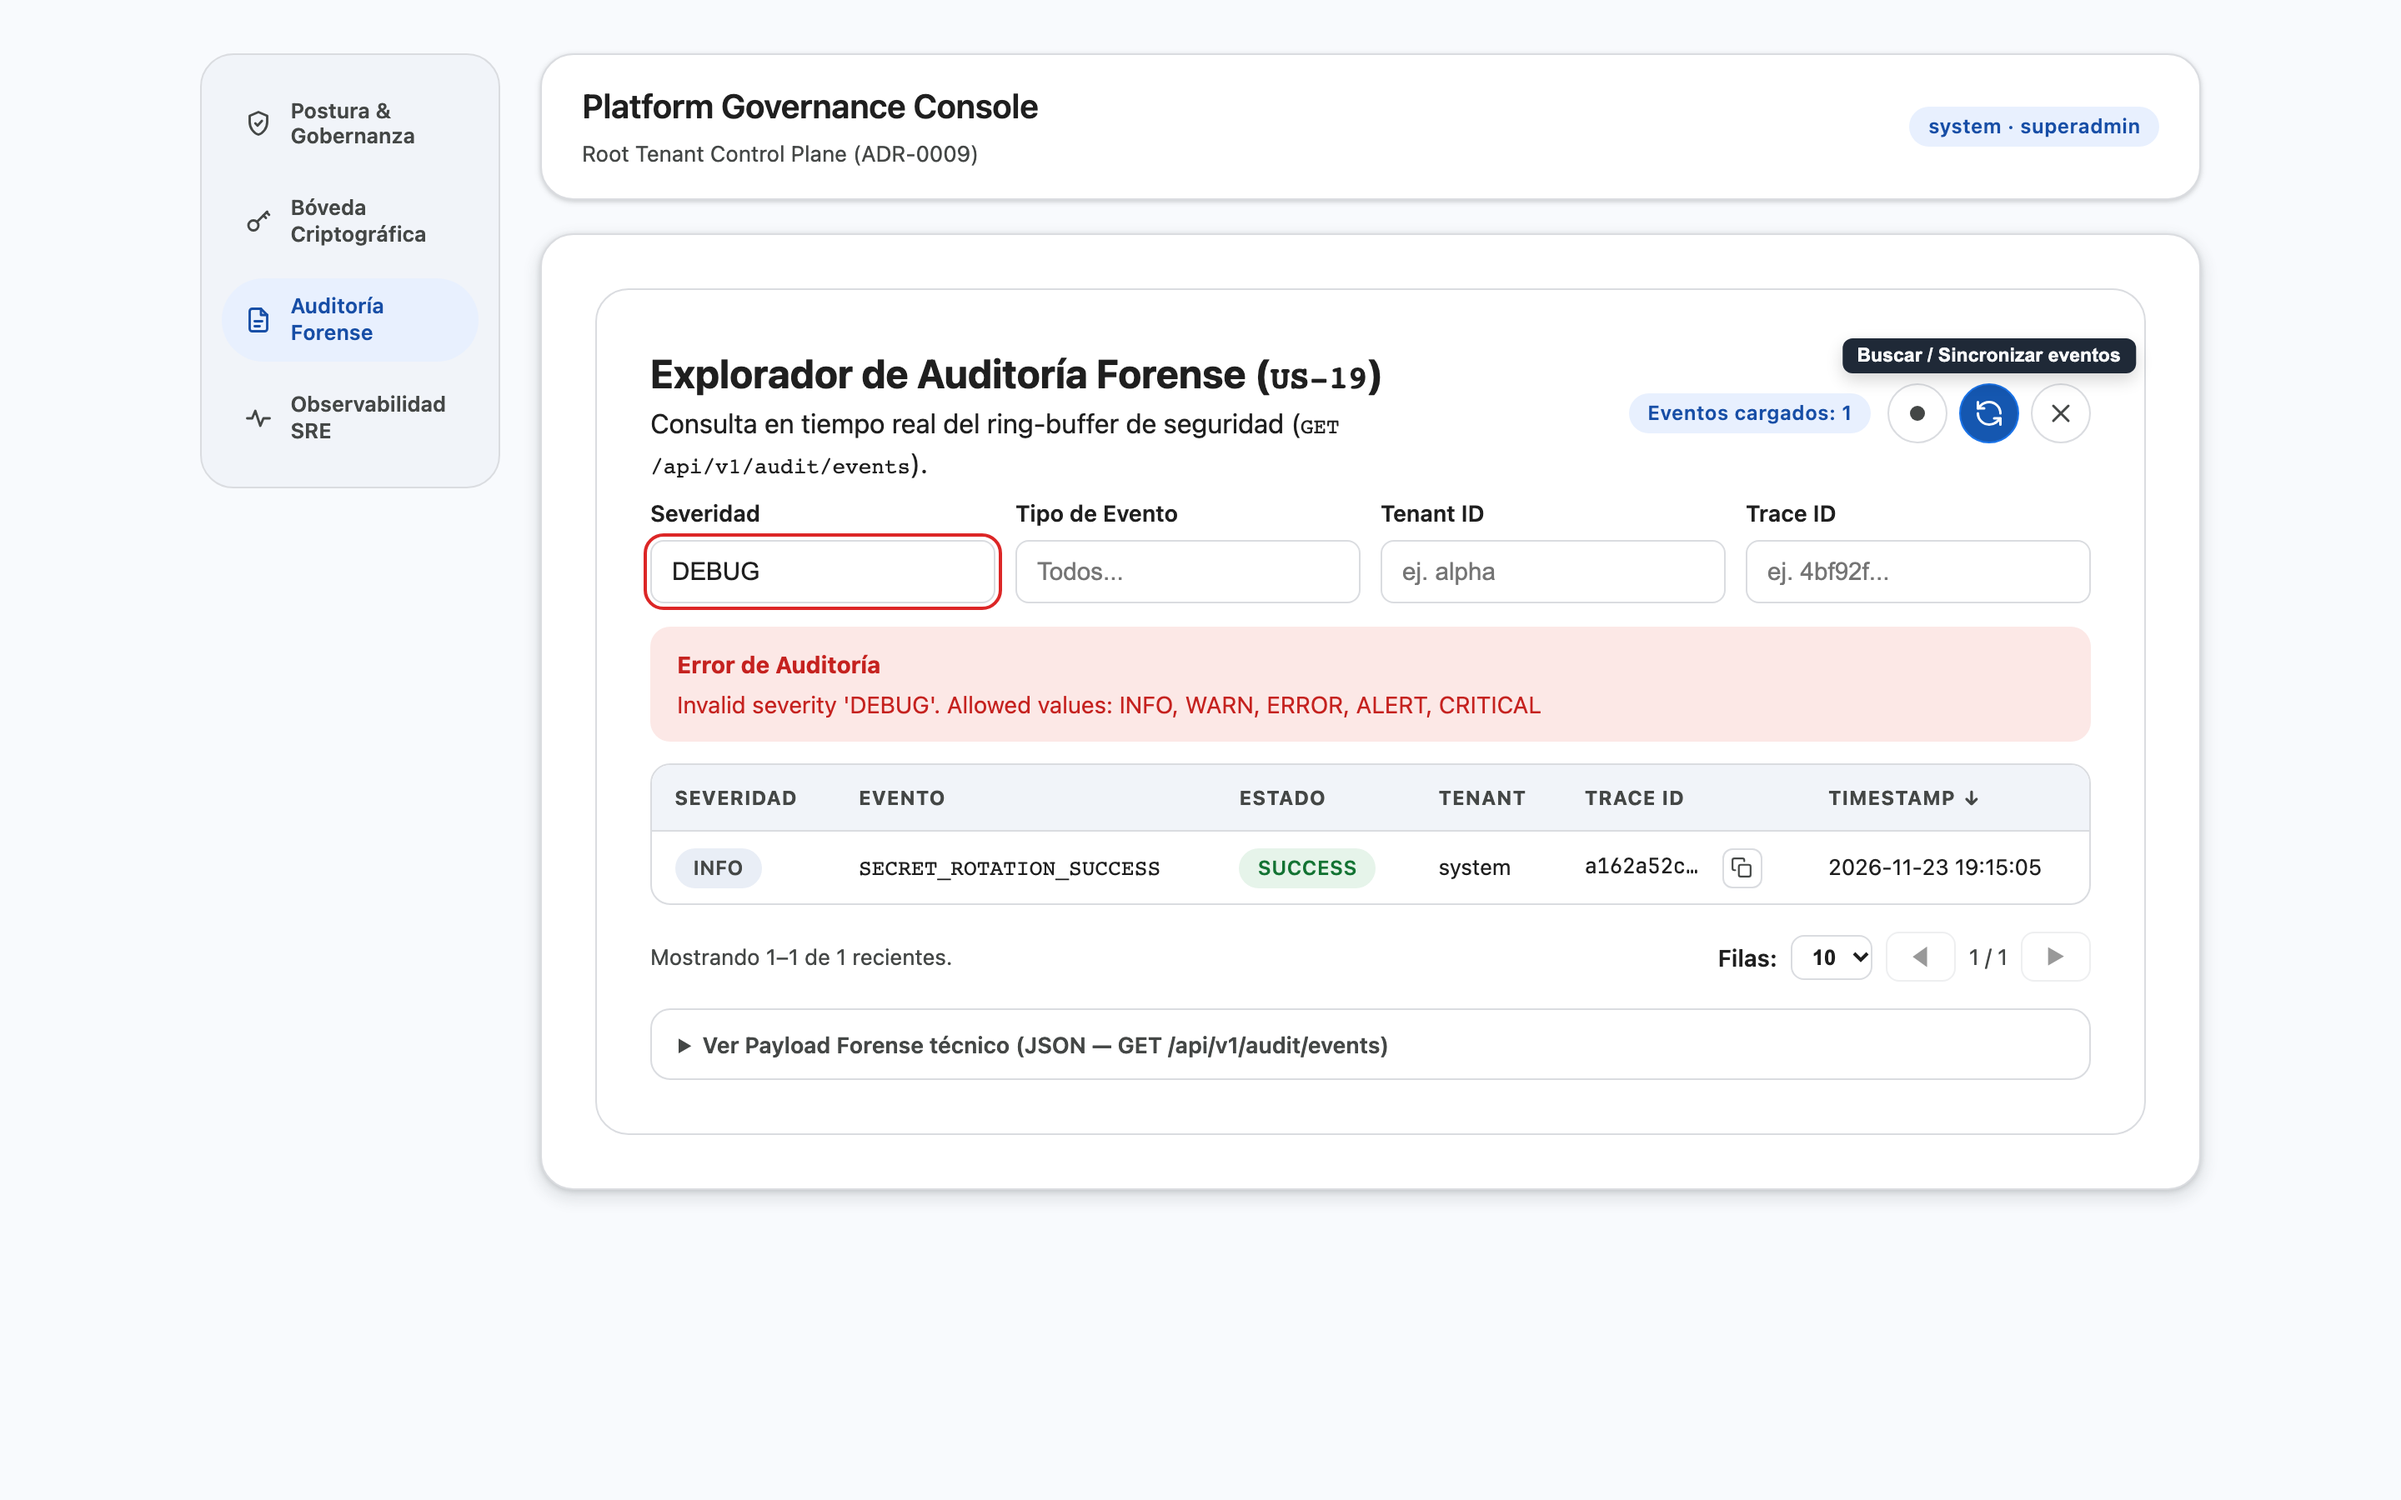
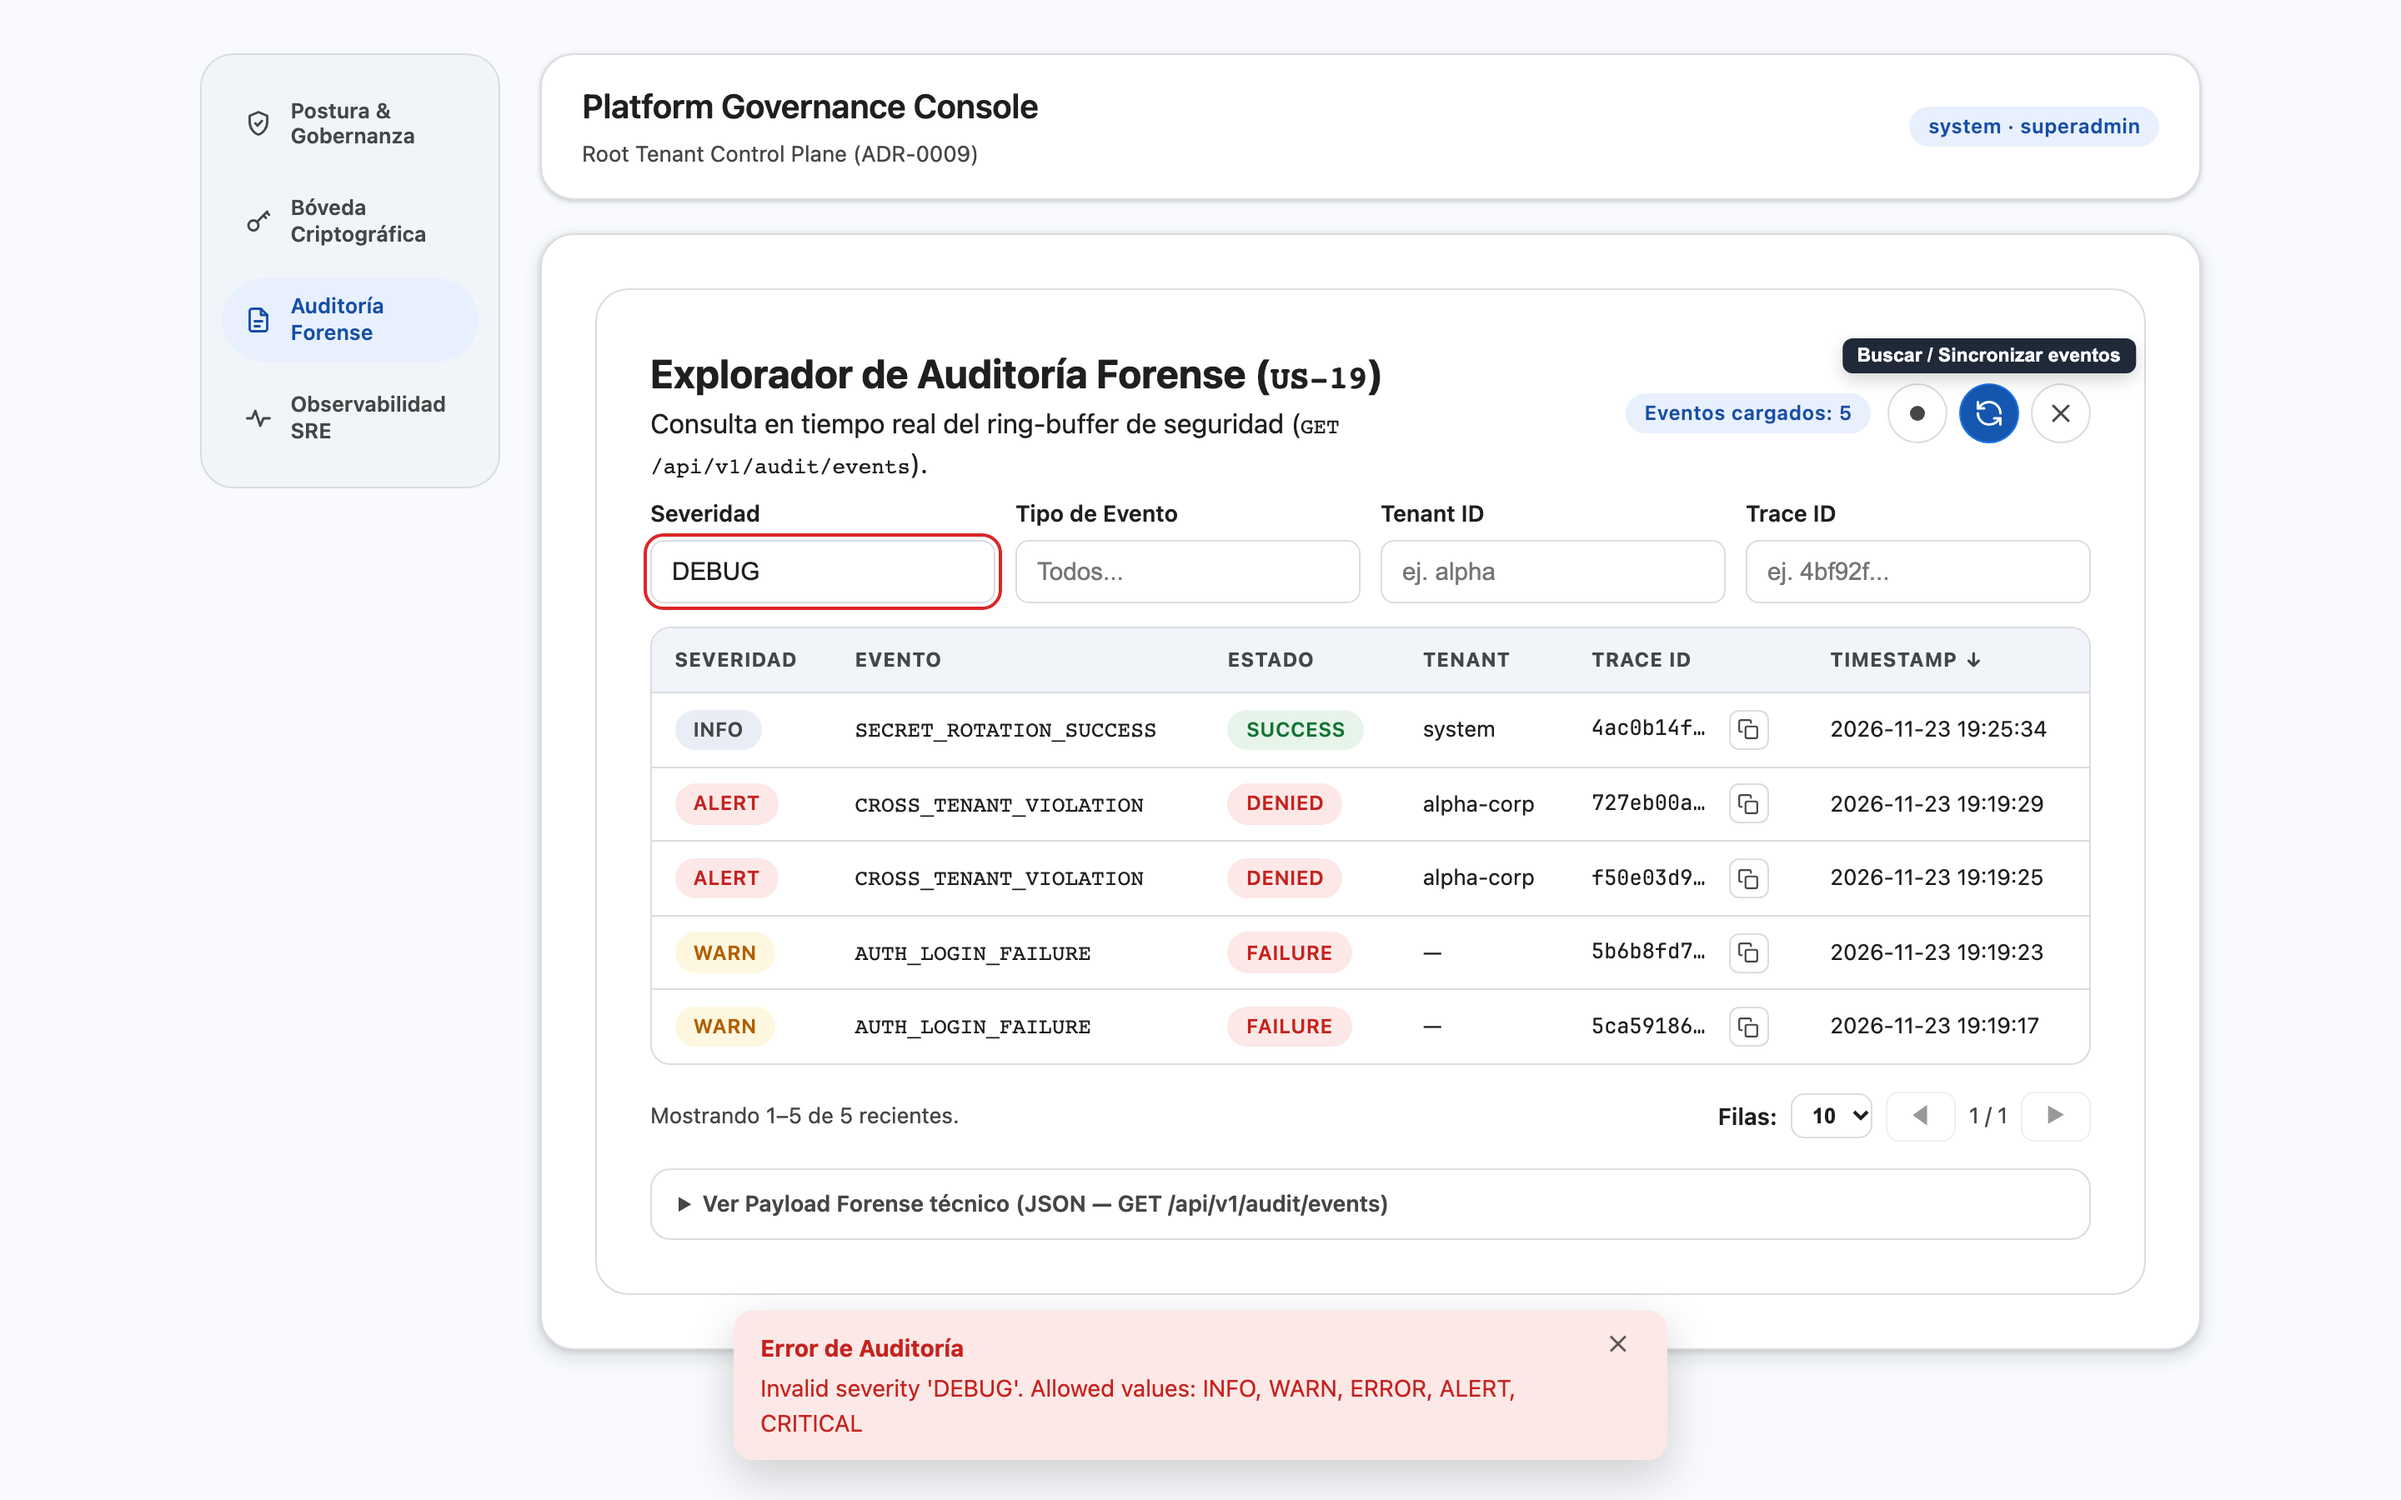
fix(ui): display AuditExplorerPanel errors in fixed bottom snackbar to prevent layout shift

diff --git a/interfaces/web/client/contexts/platform/ui/AuditExplorerPanel.tsx b/interfaces/web/client/contexts/platform/ui/AuditExplorerPanel.tsx
@@ -385,12 +385,6 @@ export function AuditExplorerPanel({ session }: AuditExplorerPanelProps) {
           />
         </div>
 
-        {error && (
-          <div style={{ marginTop: '0.85rem' }}>
-            <M3AlertBanner severity="error" title="Error de Auditoría" message={error} />
-          </div>
-        )}
-
         <div className="m3-stack" data-testid="audit-events-list" style={{ marginTop: '0.85rem' }}>
           <div className="m3-audit-table-wrap">
             <table className="m3-audit-table">
@@ -544,6 +538,20 @@ export function AuditExplorerPanel({ session }: AuditExplorerPanelProps) {
           </details>
         </div>
       </M3Card>
+
+      {error && (
+        <div className="m3-snackbar-host" data-testid="audit-error-snackbar">
+          <M3AlertBanner severity="error" title="Error de Auditoría" message={error} />
+          <button
+            type="button"
+            className="m3-snackbar-close"
+            onClick={() => setError(null)}
+            aria-label="Cerrar alerta"
+          >
+            ✕
+          </button>
+        </div>
+      )}
     </div>
   );
 }

diff --git a/interfaces/web/client/styles.css b/interfaces/web/client/styles.css
@@ -732,6 +732,44 @@ body {
   display: block;
 }
 
+.m3-snackbar-host {
+  position: fixed;
+  left: 50%;
+  bottom: 1.5rem;
+  transform: translateX(-50%);
+  z-index: 1000;
+  width: min(560px, calc(100vw - 2rem));
+  box-shadow: 0 10px 28px rgba(0, 0, 0, 0.18);
+  border-radius: var(--md-sys-shape-corner-medium, 12px);
+}
+
+.m3-snackbar-host .m3-banner {
+  padding-right: 2.5rem;
+}
+
+.m3-snackbar-close {
+  position: absolute;
+  top: 0.55rem;
+  right: 0.6rem;
+  width: 24px;
+  height: 24px;
+  border: none;
+  border-radius: 50%;
+  background: transparent;
+  color: inherit;
+  cursor: pointer;
+  display: inline-flex;
+  align-items: center;
+  justify-content: center;
+  font-size: 0.85rem;
+  opacity: 0.75;
+}
+
+.m3-snackbar-close:hover {
+  opacity: 1;
+  background: rgba(0, 0, 0, 0.06);
+}
+
 .m3-workspace-topbar {
   display: flex;
   justify-content: space-between;
